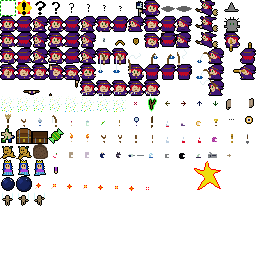
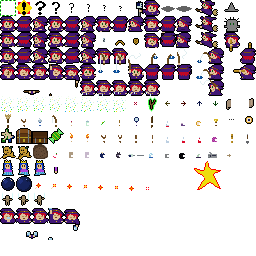
snowglobe

Changed region(s): [[0.0, 0.8125, 0.3125, 0.9062], [0.0938, 0.9062, 0.1562, 0.9375], [0.1875, 0.9062, 0.2188, 0.9375]]

diff --git a/src/game/hero/hero_item.c b/src/game/hero/hero_item.c
@@ -1044,6 +1044,46 @@ static int marionette_begin(struct sprite *sprite) {
   return 1;
 }
 
+/* Snowglobe. Dot stands still like encoding with the wand, but every stroke creates an earthquake.
+ */
+ 
+static void snowglobe_update(struct sprite *sprite,double elapsed) {
+  if (!(g.input[0]&EGG_BTN_SOUTH)) {
+    SPRITE->itemid_in_progress=0;
+    return;
+  }
+  // For aesthetic reasons mostly, each stroke has a minimum cooldown time.
+  if (SPRITE->snowglobeclock>0.0) {
+    SPRITE->snowglobeclock-=elapsed;
+    return;
+  }
+  // If we're holding some direction, it must return to neutral before anything else.
+  switch (SPRITE->wanddir) {
+    case 'L': if (g.input[0]&EGG_BTN_LEFT) return; break;
+    case 'R': if (g.input[0]&EGG_BTN_RIGHT) return; break;
+    case 'U': if (g.input[0]&EGG_BTN_UP) return; break;
+    case 'D': if (g.input[0]&EGG_BTN_DOWN) return; break;
+  }
+  char nwanddir=0;
+  if (g.input[0]&EGG_BTN_LEFT) nwanddir='L';
+  else if (g.input[0]&EGG_BTN_RIGHT) nwanddir='R';
+  else if (g.input[0]&EGG_BTN_UP) nwanddir='U';
+  else if (g.input[0]&EGG_BTN_DOWN) nwanddir='D';
+  if (nwanddir==SPRITE->wanddir) return;
+  SPRITE->wanddir=nwanddir;
+  if (nwanddir) {
+    SPRITE->snowglobeclock=0.333;
+    bm_start_earthquake(nwanddir);
+  }
+}
+
+static int snowglobe_begin(struct sprite *sprite) {
+  SPRITE->itemid_in_progress=NS_itemid_snowglobe;
+  SPRITE->wanddir=0;
+  SPRITE->snowglobeclock=0.0;
+  return 1;
+}
+
 /* Swap items with inventory.
  */
  
@@ -1109,6 +1149,7 @@ void hero_item_update(struct sprite *sprite,double elapsed) {
       case NS_itemid_busstop: busstop_update(sprite,elapsed); break;
       case NS_itemid_tapemeasure: tapemeasure_update(sprite,elapsed); break;
       case NS_itemid_marionette: marionette_update(sprite,elapsed); break;
+      case NS_itemid_snowglobe: snowglobe_update(sprite,elapsed); break;
       default: fprintf(stderr,"%s:%d:ERROR: Item %d is in progress but has no update handler.\n",__FILE__,__LINE__,SPRITE->itemid_in_progress);
     }
     return;
@@ -1166,6 +1207,7 @@ void hero_item_update(struct sprite *sprite,double elapsed) {
       case NS_itemid_phonograph: result=phonograph_begin(sprite); break;
       case NS_itemid_crystal: result=crystal_begin(sprite); break;
       case NS_itemid_marionette: result=marionette_begin(sprite); break;
+      case NS_itemid_snowglobe: result=snowglobe_begin(sprite); break;
     }
     if (!result) {
       bm_sound(RID_sound_reject);

diff --git a/src/game/hero/hero_render.c b/src/game/hero/hero_render.c
@@ -357,6 +357,24 @@ static void hero_render_marionette(struct sprite *sprite,int x,int y) {
   hero_render_errata(sprite,x,y);
 }
 
+/* Snowglobe. Same idea and layout as wand. (but no rejection or encoding).
+ */
+ 
+static void hero_render_snowglobe(struct sprite *sprite,int x,int y) {
+  uint8_t tileid=0xd0;
+  uint8_t wtileid=0;
+  int wdx=0,wdy=0;
+  switch (SPRITE->wanddir) { // sic "wanddir"
+    case 'U': tileid+=3; wtileid=tileid+0x10; wdy=-NS_sys_tilesize; break;
+    case 'L': tileid+=1; wtileid=tileid+0x10; wdx=-NS_sys_tilesize; break;
+    case 'R': tileid+=2; wtileid=tileid+0x10; wdx=NS_sys_tilesize; break;
+    case 'D': tileid+=4; wtileid=tileid+0x10; wdy=NS_sys_tilesize; break;
+  }
+  graf_tile(&g.graf,x,y,tileid,0);
+  if (wtileid) graf_tile(&g.graf,x+wdx,y+wdy,wtileid,0);
+  hero_render_errata(sprite,x,y);
+}
+
 /* Render, main entry point.
  */
  
@@ -389,6 +407,7 @@ void hero_render(struct sprite *sprite,int x,int y) {
     case NS_itemid_busstop: hero_render_busstop(sprite,x,y); return;
     case NS_itemid_tapemeasure: hero_render_tapemeasure(sprite,x,y); break; // And proceed with regular update.
     case NS_itemid_marionette: hero_render_marionette(sprite,x,y); return;
+    case NS_itemid_snowglobe: hero_render_snowglobe(sprite,x,y); return;
   }
   
   /* When the shovel is armed, draw a preview square.

diff --git a/src/game/weather.c b/src/game/weather.c
@@ -1,0 +1,37 @@
+#include "bellacopia.h"
+
+#define EQSPEED 2.000
+#define EQDURATION 0.500
+
+/* Start earthquake.
+ */
+ 
+void bm_start_earthquake(char dir) {
+  double dx=0.0,dy=0.0;
+  switch (dir) {
+    case 'L': dx=1.0; break;
+    case 'R': dx=-1.0; break;
+    case 'U': dy=1.0; break;
+    case 'D': dy=-1.0; break;
+    default: return;
+  }
+  bm_sound(RID_sound_earthquake);
+  g.eqclock=EQDURATION;
+  g.eqdx=dx;
+  g.eqdy=dy;
+}
+
+/* Advance earthquake.
+ */
+ 
+void bm_update_earthquake(double elapsed) {
+  if (g.eqclock<=0.0) return;
+  g.eqclock-=elapsed;
+  struct sprite **spritep=GRP(moveable)->sprv;
+  int i=GRP(moveable)->sprc;
+  for (;i-->0;spritep++) {
+    struct sprite *sprite=*spritep;
+    if (sprite->defunct) continue;
+    sprite_move(sprite,g.eqdx*EQSPEED*elapsed,g.eqdy*EQSPEED*elapsed);
+  }
+}

diff --git a/src/game/hero/hero_internal.h b/src/game/hero/hero_internal.h
@@ -23,7 +23,7 @@ struct sprite_hero {
     uint8_t tileid;
   } divining_alertv[9];
   double divining_alert_clock;
-  char wanddir; // 0,'LRUD'
+  char wanddir; // 0,'LRUD'. Also used by Snowglobe, for rendering.
   char spell[SPELL_LIMIT]; // 'LRUD.'
   int spellc;
   double spellrejectclock;
@@ -49,6 +49,7 @@ struct sprite_hero {
   double tapeanchorx,tapeanchory;
   double tapedistance;
   int tapez;
+  double snowglobeclock;
   
   // For door transitions.
   int door_listener; // Nonzero if transition in progress. It's a map listenerid from the camera.

diff --git a/src/game/camera.c b/src/game/camera.c
@@ -409,6 +409,14 @@ void camera_update(double elapsed) {
     idealy+=g.camera.teledy;
   }
   
+  /* If an earthquake is going on, effect the shaking by nudging (ideal).
+   */
+  if (g.eqclock>0.0) {
+    double eqd=sin(g.eqclock*22.000)*(2.0/NS_sys_tilesize);
+    if ((g.eqdx<-0.5)||(g.eqdx>0.5)) idealy+=eqd;
+    else idealx+=eqd;
+  }
+  
   /* Advance (fx,fy) toward (idealx,idealy) at a global speed limit.
    * If we're within a pixel of it, just snap. (bear in mind this is running always).
    * Ditto in cut and lock cases.

diff --git a/src/game/game.h b/src/game/game.h
@@ -235,4 +235,13 @@ const struct story *story_by_index_present(int p); // Contiguous (p) but only re
  */
 void game_tell_story(const struct story *story);
 
+/* Weather and such: weather.c
+ ***********************************************************************/
+ 
+/* (dir) is [LRUD], the direction of the snowglobe stroke.
+ * Loose objects will slide the opposite direction.
+ */
+void bm_start_earthquake(char dir);
+void bm_update_earthquake(double elapsed);
+
 #endif

diff --git a/src/game/sprite/sprite_pushable.c b/src/game/sprite/sprite_pushable.c
@@ -60,6 +60,7 @@ static void pushable_begin_move(struct sprite *sprite) {
   SPRITE->targetx=tx+0.5;
   SPRITE->targety=ty+0.5;
   SPRITE->moveclock=SLIDE_GIVEUP_TIME; // All motion is much faster than 1 m/s. If we're still trying after so long, give up.
+  bm_sound(RID_sound_push);
 }
 
 static void pushable_end_move(struct sprite *sprite) {

diff --git a/src/game/game.c b/src/game/game.c
@@ -37,10 +37,12 @@ void game_update(double elapsed) {
   if (g.flash>0.0) {
     g.flash-=elapsed;
   }
-  
   if (g.vanishing>0.0) {
     g.vanishing-=elapsed;
   }
+  
+  // Weather.
+  if (g.eqclock>0.0) bm_update_earthquake(elapsed);
 }
 
 /* Map becomes visible.

diff --git a/src/game/bellacopia.h b/src/game/bellacopia.h
@@ -78,6 +78,7 @@ extern struct g {
   int gameover; // Set nonzero to end story-mode play.
   int telescoping; // Telescope in use. Some viewport-sensitive ops get suspended.
   int stopwatch;
+  double eqclock,eqdx,eqdy; // Earthquake.
 } g;
 
 /* Misc global API.

diff --git a/src/game/modal/modal_story.c b/src/game/modal/modal_story.c
@@ -119,7 +119,7 @@ static void _story_update(struct modal *modal,double elapsed) {
   sprite_group_kill_all(GRP(deathrow));
   
   // Other updatey things.
-  game_update(elapsed);
+  game_update(elapsed_most);
   feet_update();
   camera_update(elapsed);
   

diff --git a/src/game/hero/hero_motion.c b/src/game/hero/hero_motion.c
@@ -13,6 +13,7 @@ static int item_prevents_motion(uint8_t itemid) {
     case NS_itemid_telescope:
     case NS_itemid_busstop:
     case NS_itemid_marionette:
+    case NS_itemid_snowglobe:
       return 1;
   }
   return 0;

diff --git a/README.md b/README.md
@@ -34,7 +34,7 @@ Requires [Egg](https://github.com/aksommerville/egg2) to build.
 - [x] Bomb
 - [x] Stopwatch
 - [ ] Portable Bus Stop. The trigger is implemented. Need to make the actual bus and the warping.
-- [ ] Snowglobe
+- [x] Snowglobe
 - [x] Tape measure. Hold A and it shows exactly how far to the point where you started. So we can give clues like "43 meters west of the statue".
 - [x] Phonograph. Change the outerworld's music.
 - [x] Crystal Ball. Context-sensitive advice. Make it remniscent of a Magic 8-Ball.
